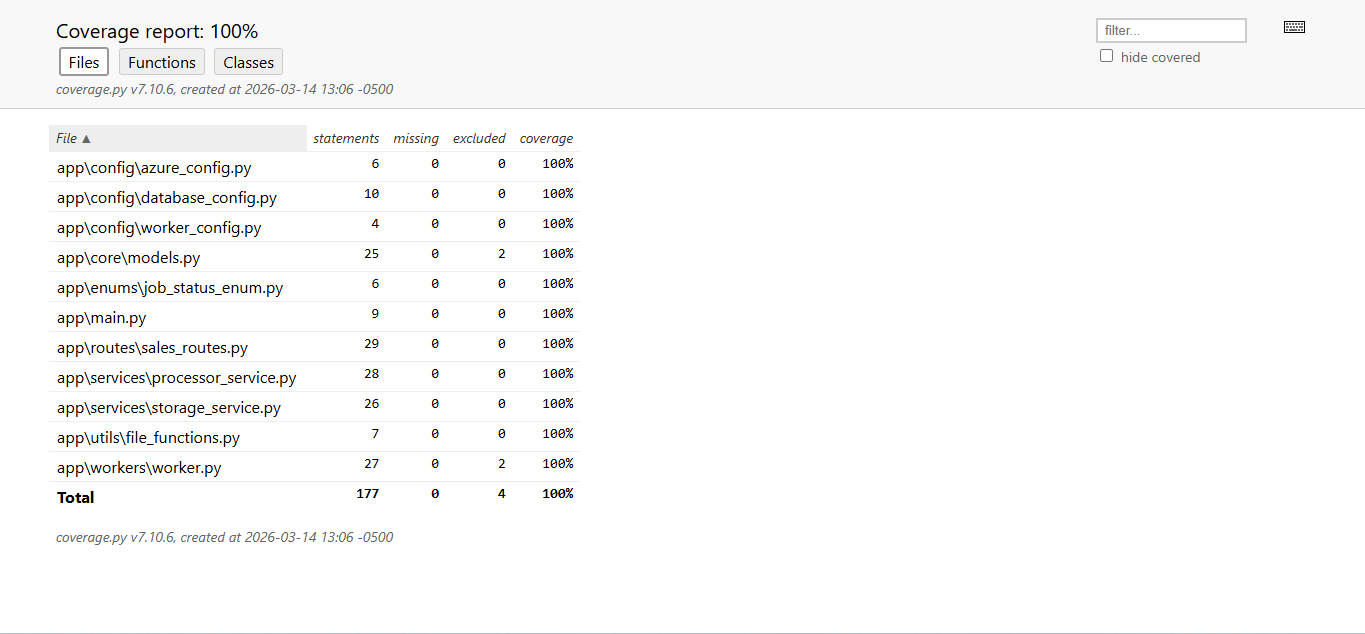
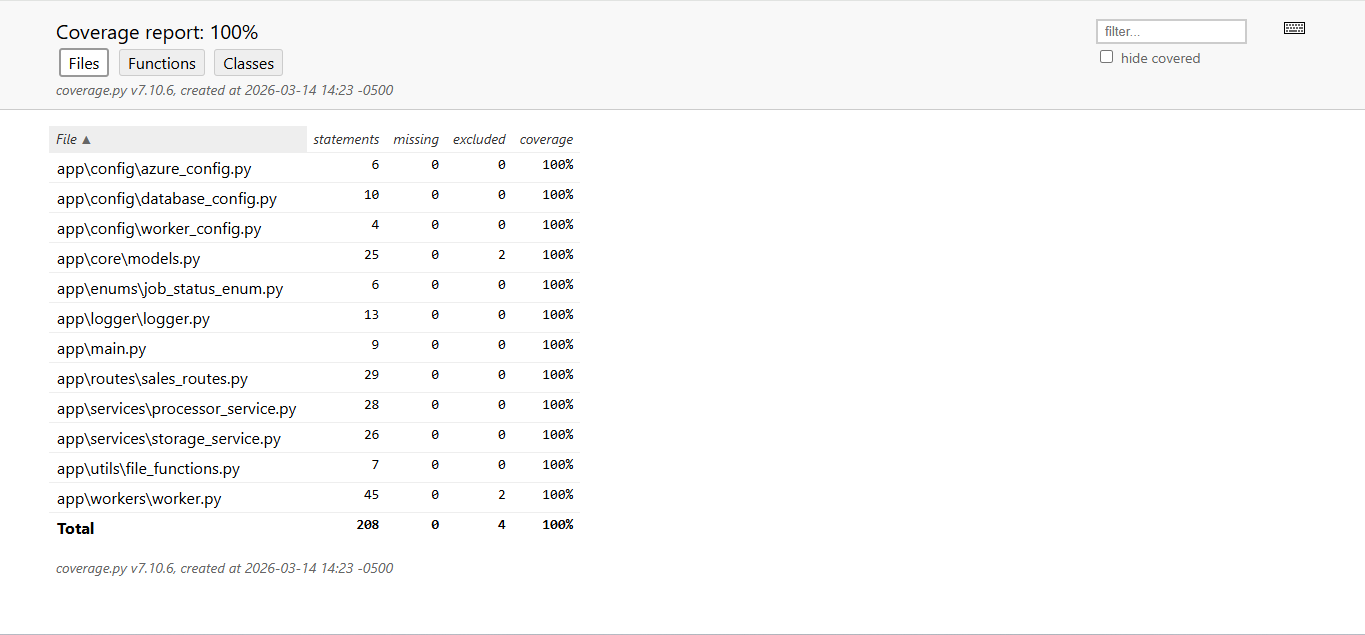
Se agrega logger al worker, para trazabilidad del servicio

diff --git a/test/workers/test_worker.py b/test/workers/test_worker.py
@@ -51,3 +51,123 @@ def test_worker_processing_flow(mocker):
     
     # ¿Se eliminó el mensaje de la cola tras procesarlo?
     mock_queue_client.delete_message.assert_called_once_with(mock_message)
+
+# Prueba que si falla la conexión inicial a Azure, se registra un error CRITICAL y el worker se detiene.
+def test_worker_critical_azure_connection_error(mocker):
+    # 1. Mockear los clientes de Azure para que lancen una excepción al conectar
+    # Simulamos un error de autenticación o conexión
+    error_msg = "Connection string is malformed"
+    mocker.patch(
+        "app.workers.worker.QueueClient.from_connection_string", 
+        side_effect=Exception(error_msg)
+    )
+    
+    # 2. Mockear el logger para verificar la trazabilidad
+    mock_logger = mocker.patch("app.workers.worker.logger")
+    
+    # 3. Mockear el bucle while True o el inicio del procesamiento 
+    # para asegurar que NO se ejecute si hay error
+    mock_receive = mocker.patch("app.workers.worker.QueueClient.receive_messages")
+
+    # 4. Ejecutar el worker
+    # No debería lanzar excepción hacia afuera porque el código tiene un try-except con return
+    run_worker()
+
+    # 5. Verificaciones (Assertions)
+    
+    # Verificamos que se registró el error crítico con el mensaje esperado
+    mock_logger.critical.assert_called_once_with(
+        f"Fallo crítico al conectar con Azure: {error_msg}"
+    )
+    
+    # Verificamos que el worker NO intentó recibir mensajes (se detuvo antes)
+    mock_receive.assert_not_called()
+    
+    # Verificamos que se imprimió el inicio pero falló después
+    mock_logger.info.assert_any_call("Iniciando Worker de Procesamiento de Ventas...")
+
+# Prueba que si un Job falla, se registra un ERROR en el log, pero el worker continúa su ejecución.
+def test_worker_job_processing_error_traceability(mocker):
+    # 1. Mocks de conexión exitosa
+    mocker.patch("app.workers.worker.QueueClient.from_connection_string")
+    mocker.patch("app.workers.worker.BlobServiceClient.from_connection_string")
+    mock_logger = mocker.patch("app.workers.worker.logger")
+    
+    # 2. Simular un mensaje en la cola
+    job_id = "job-error-123"
+    mock_message = MagicMock()
+    mock_message.content = json.dumps({"job_id": job_id, "blob": "fail.csv"})
+    
+    # Configuramos para que reciba un mensaje y luego lance KeyboardInterrupt para salir del bucle
+    mock_queue_client = mocker.patch("app.workers.worker.QueueClient.from_connection_string").return_value
+    mock_queue_client.receive_messages.side_effect = [[mock_message], KeyboardInterrupt()]
+
+    # 3. Forzar un error en el ProcessorService (Simulamos falla de lógica o datos)
+    mocker.patch("app.workers.worker.SessionLocal")
+    mock_processor = mocker.patch("app.workers.worker.ProcessorService").return_value
+    
+    error_msg = "Formato de CSV inválido"
+    mock_processor.process_csv_from_stream.side_effect = Exception(error_msg)
+
+    # 4. Mock del descargador de blobs (necesario para llegar al procesador)
+    mock_blob_client = mocker.patch("app.workers.worker.BlobServiceClient.from_connection_string").return_value
+    mock_downloader = MagicMock()
+    mock_blob_client.get_blob_client.return_value.download_blob.return_value = mock_downloader
+
+    # 5. Ejecutar el worker
+    try:
+        run_worker()
+    except KeyboardInterrupt:
+        pass
+
+    # 6. Verificaciones (Assertions)
+    
+    # Verificamos que se registró el error específico del Job
+    # El mensaje debe coincidir con el f-string: f"Error procesando Job {job_id}: {str(e)}"
+    mock_logger.error.assert_called_once_with(
+        f"Error procesando Job {job_id}: {error_msg}"
+    )
+    
+    # Verificamos que NO se eliminó el mensaje de la cola (porque falló el proceso)
+    mock_queue_client.delete_message.assert_not_called()
+
+# Prueba que si falla el ciclo principal (ej. receive_messages), se registra un WARNING, se espera un tiempo y el worker continúa.
+def test_worker_main_cycle_error_resilience(mocker):
+    # 1. Mockear los clientes de Azure (conexión exitosa inicial)
+    mocker.patch("app.workers.worker.QueueClient.from_connection_string")
+    mocker.patch("app.workers.worker.BlobServiceClient.from_connection_string")
+    
+    # 2. Mock del Logger y Time.sleep
+    mock_logger = mocker.patch("app.workers.worker.logger")
+    # Mockeamos sleep para que el test no dure 10 segundos realmente
+    mock_sleep = mocker.patch("app.workers.worker.time.sleep")
+    
+    # 3. Forzar error en el ciclo principal
+    # Simulamos que la primera llamada a la cola falla, y la segunda lanza KeyboardInterrupt para salir
+    mock_queue_client = mocker.patch("app.workers.worker.QueueClient.from_connection_string").return_value
+    
+    error_msg = "Error temporal de red en la cola"
+    mock_queue_client.receive_messages.side_effect = [
+        Exception(error_msg), 
+        KeyboardInterrupt()  # Esto rompe el bucle while True en el test
+    ]
+
+    # 4. Ejecutar el worker
+    try:
+        run_worker()
+    except KeyboardInterrupt:
+        pass
+
+    # 5. Verificaciones (Assertions)
+    
+    # Verificamos que se registró el WARNING con el mensaje correcto
+    mock_logger.warning.assert_called_once_with(
+        f"Error en el ciclo principal del worker: {error_msg}"
+    )
+    
+    # Verificamos que se ejecutó el sleep de 10 segundos para reintento
+    mock_sleep.assert_any_call(10)
+    
+    # Verificamos que el proceso no se detuvo tras el primer error
+    # (El hecho de que haya intentado la segunda vez y llegara al KeyboardInterrupt lo confirma)
+    assert mock_queue_client.receive_messages.call_count == 2

diff --git a/app/workers/worker.py b/app/workers/worker.py
@@ -4,39 +4,61 @@ from azure.storage.queue import QueueClient
 from azure.storage.blob import BlobServiceClient
 from app.config.azure_config import AZURE_BLOB_CONTAINER, AZURE_QUEUE_NAME, AZURE_STORAGE_CONN
 from app.config.database_config import SessionLocal
+from app.logger.logger import setup_logger
 from app.services.processor_service import ProcessorService
 
+logger = setup_logger("SalesWorker")
+
 def run_worker():
-    queue_client = QueueClient.from_connection_string(AZURE_STORAGE_CONN, AZURE_QUEUE_NAME)
-    blob_service_client = BlobServiceClient.from_connection_string(AZURE_STORAGE_CONN)
+    logger.info("Iniciando Worker de Procesamiento de Ventas...")
+
+    try:
+        queue_client = QueueClient.from_connection_string(AZURE_STORAGE_CONN, AZURE_QUEUE_NAME)
+        blob_service_client = BlobServiceClient.from_connection_string(AZURE_STORAGE_CONN)
+        logger.info("Conexión exitosa con Azure Storage.")
+    except Exception as e:
+        logger.critical(f"Fallo crítico al conectar con Azure: {str(e)}")
+        return
     
-    print("Worker escuchando cola...")
+    logger.info("Worker escuchando cola...")
     
     while True:
-        messages = queue_client.receive_messages(messages_per_page=1, visibility_timeout=300)
-        
-        for msg in messages:
-            data = json.loads(msg.content)
-            job_id = data['job_id']
-            blob_name = data['blob']
-            print(f"Procesando Job ID: {job_id}")
+        try:
+            messages = queue_client.receive_messages(messages_per_page=1, visibility_timeout=300)
             
-            db = SessionLocal()
-            processor = ProcessorService(db)
-            
-            # 1. Descargar CSV
-            blob_client = blob_service_client.get_blob_client(container=AZURE_BLOB_CONTAINER, blob=blob_name)
-            downloader = blob_client.download_blob()
-            
-            # 2. Procesar e insertar
-            processor.process_csv_from_stream(downloader.readall(), job_id)
-            print(f"Procesamiento de Job ID {job_id} finalizado")
-            
-            # 3. Eliminar mensaje de la cola
-            queue_client.delete_message(msg)
-            db.close()
-            
-        time.sleep(5) # Evitar consumo excesivo de CPU
+            for msg in messages:
+                data = json.loads(msg.content)
+                job_id = data['job_id']
+                blob_name = data['blob']
+                logger.info(f"Iniciando Job: {job_id} | Archivo: {blob_name}")
+                
+                db = SessionLocal()
+                processor = ProcessorService(db)
+                
+                try:
+                    # 1. Descargar CSV
+                    logger.debug(f"Descargando blob {blob_name}...")
+                    blob_client = blob_service_client.get_blob_client(container=AZURE_BLOB_CONTAINER, blob=blob_name)
+                    downloader = blob_client.download_blob()
+                    
+                    # 2. Procesar e insertar
+                    content = downloader.readall()
+                    logger.info(f"Procesando contenido de {job_id} ({len(content)} bytes)...")
+                    processor.process_csv_from_stream(content, job_id)
+                    
+                    # 3. Eliminar mensaje de la cola
+                    queue_client.delete_message(msg)
+                    logger.info(f"Job {job_id} completado con éxito y eliminado de la cola.")
+                except Exception as e:
+                    logger.error(f"Error procesando Job {job_id}: {str(e)}")
+                finally:
+                    db.close()
+                
+            time.sleep(5) # Evitar consumo excesivo de CPU
+
+        except Exception as e:
+            logger.warning(f"Error en el ciclo principal del worker: {str(e)}")
+            time.sleep(10)
 
 if __name__ == "__main__":
     run_worker()

diff --git a/app/logger/logger.py b/app/logger/logger.py
@@ -1,0 +1,24 @@
+import logging
+import sys
+
+def setup_logger(name: str):
+    logger = logging.getLogger(name)
+    logger.setLevel(logging.INFO)
+
+    # Formato: Tiempo - Nombre - Nivel - Mensaje
+    formatter = logging.Formatter(
+        '%(asctime)s | %(name)s | %(levelname)s | %(message)s',
+        datefmt='%Y-%m-%d %H:%M:%S'
+    )
+
+    # Handler para consola
+    console_handler = logging.StreamHandler(sys.stdout)
+    console_handler.setFormatter(formatter)
+    logger.addHandler(console_handler)
+
+    # Handler para archivo (opcional, útil para persistencia local)
+    file_handler = logging.FileHandler("worker_activity.log")
+    file_handler.setFormatter(formatter)
+    logger.addHandler(file_handler)
+
+    return logger

diff --git a/README.md b/README.md
@@ -73,6 +73,32 @@ Se anexa archivo CSV con datos utilizados para las pruebas de carga, el cual se 
 
 `python -m app.workers.worker`
 
+## Sistema de Trazabilidad (Logging)
+
+El sistema implementa un esquema de logging robusto y estructurado, esencial para el monitoreo de procesos asíncronos y la depuración en entornos de producción.
+
+### Arquitectura de Logs
+Se configuró un logger personalizado (`SalesWorker`) que captura eventos en múltiples niveles de severidad, permitiendo una observabilidad completa del ciclo de vida de cada archivo procesado; y dejando trazabilidad en el archivo `worker_activity.log` ubicado en la raíz del proyecto.
+
+- **INFO**: Registra el inicio del worker, la detección de nuevos mensajes en la cola y la confirmación de procesamiento exitoso.
+- **WARNING**: Captura errores recuperables, como fallos temporales de conexión con Azure Queue Storage, activando un mecanismo de reintento automático (`backoff` de 10 segundos).
+- **ERROR**: Registra fallos específicos en un Job **(ej. CSV corrupto o error de esquema)**. El sistema aísla el error, registra el `job_id` afectado y continúa procesando el siguiente mensaje sin detener el servicio.
+- **CRITICAL**: Reporta fallos de infraestructura insalvables **(como credenciales de Azure incorrectas)** que requieren intervención inmediata, deteniendo el worker de forma segura.
+
+### Formato de Salida
+Cada entrada de log sigue un estándar estructurado para facilitar su integración con herramientas de análisis de logs **(como Azure Monitor, ELK Stack o Splunk)**:
+
+`YYYY-MM-DD HH:MM:SS | Nombre_Logger | Nivel | Mensaje`
+
+### Ejemplo de Trazabilidad en Consola
+````
+2026-03-14 14:00:01 | SalesWorker | INFO | Iniciando Worker de Procesamiento de Ventas...
+2026-03-14 14:00:05 | SalesWorker | INFO | Iniciando Job: 7d2f-4a1b | Archivo: ventas_marzo.csv
+2026-03-14 14:00:08 | SalesWorker | ERROR | Error procesando Job 7d2f-4a1b: Formato de fecha inválido.
+2026-03-14 14:00:10 | SalesWorker | INFO | Iniciando Job: 9e1a-2c3d | Archivo: ventas_abril.csv
+2026-03-14 14:00:12 | SalesWorker | INFO | Job 9e1a-2c3d completado con éxito.
+````
+
 ## **Automatización con n8n**
 Se diseñó un workflow en n8n para la generación del resumen diario de ventas.
 
@@ -87,9 +113,12 @@ Se diseñó un workflow en n8n para la generación del resumen diario de ventas.
 │   ├── config/      # Configuraciones de DB y Azure
 │   ├── core/        # Modelos de SQLAlchemy
 │   ├── enums/       # Estados de los trabajos
+│   ├── logger/      # Configuración del sistema de trazabilidad
 │   ├── routes/      # Endpoints de la API
 │   ├── services/    # Lógica de negocio (Storage y Procesamiento)
+│   ├── utils/       # Funciones utilitarias
 │   └── workers/     # Script del proceso asíncrono
+├── data/            # Datos de pruebas utilizados para la carga de información
 ├── tests/           # Suite de pruebas unitarias
 ├── .env.example     # Plantilla de configuración
 └── requirements.txt # Dependencias del proyecto
